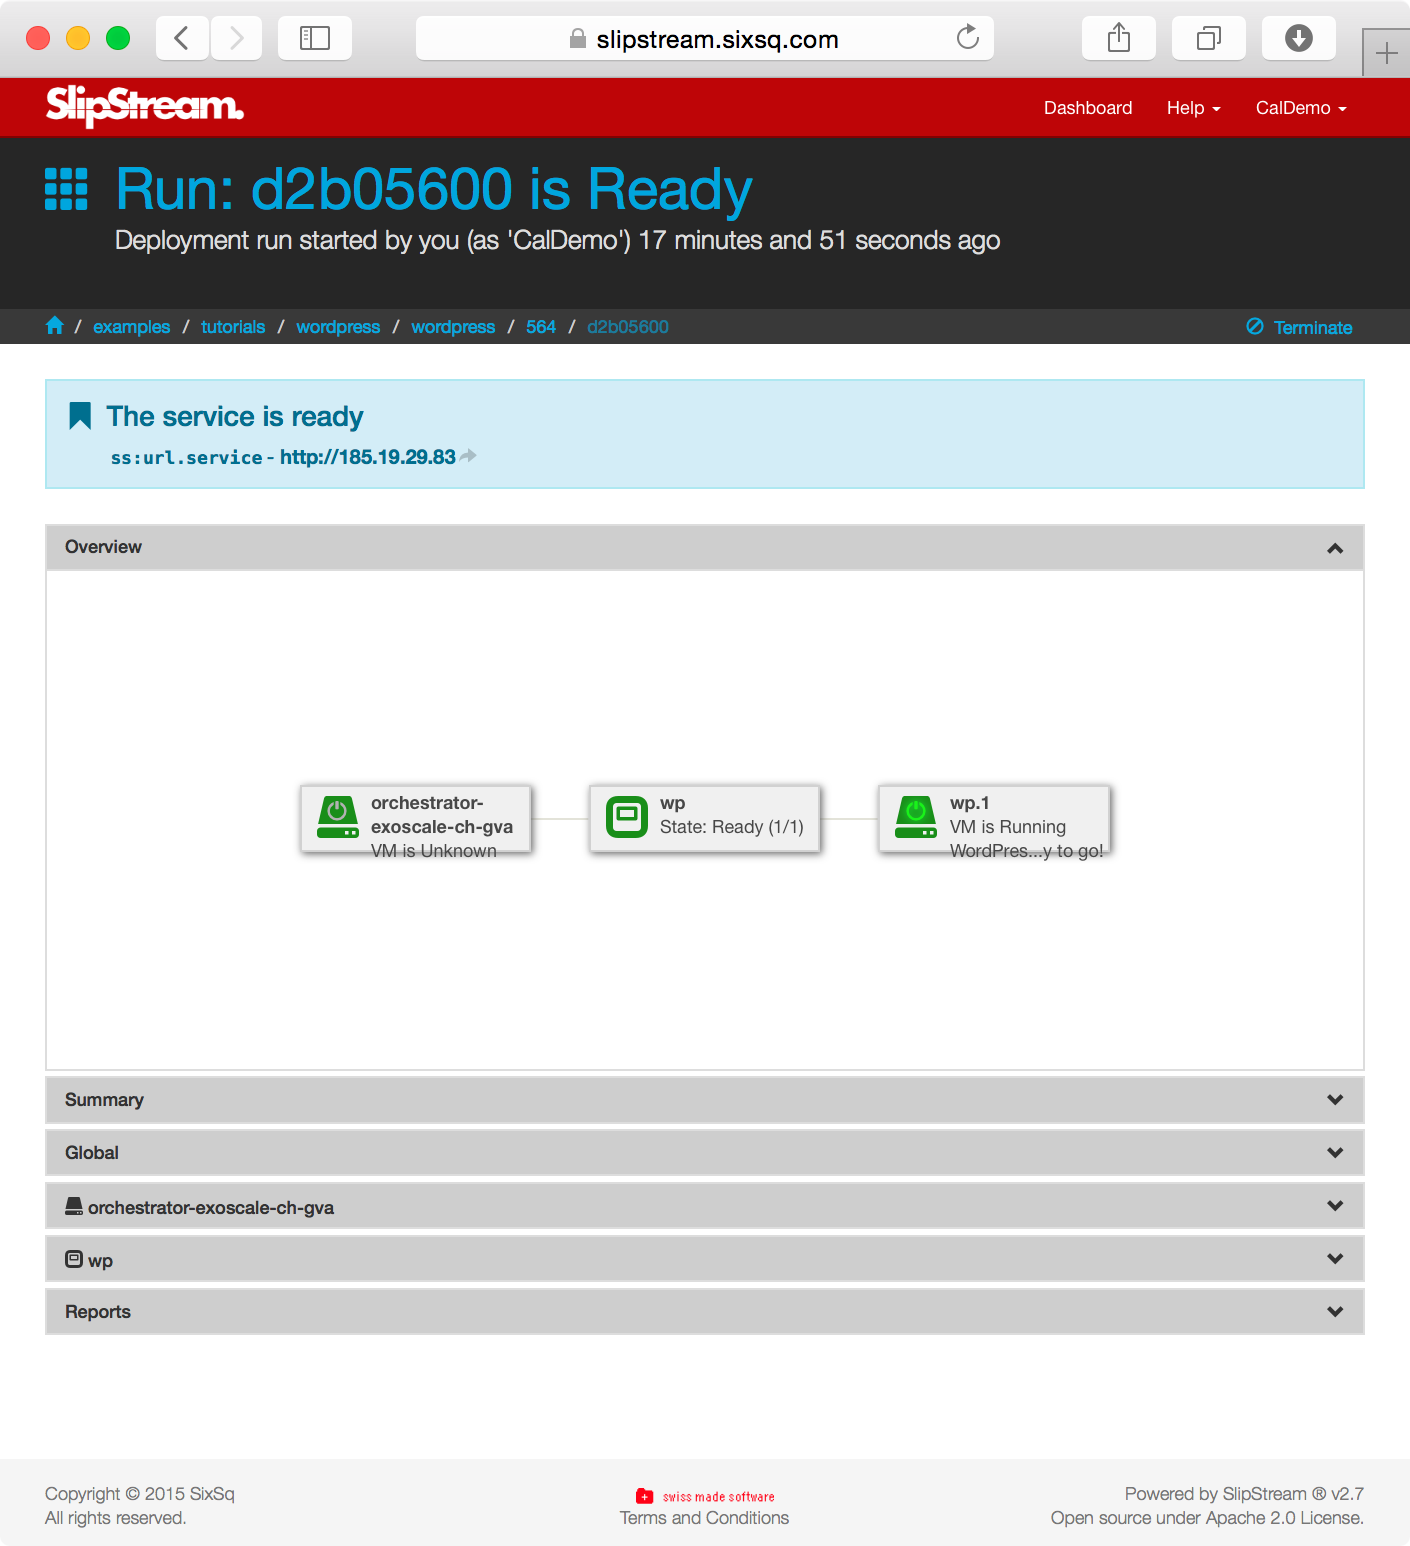
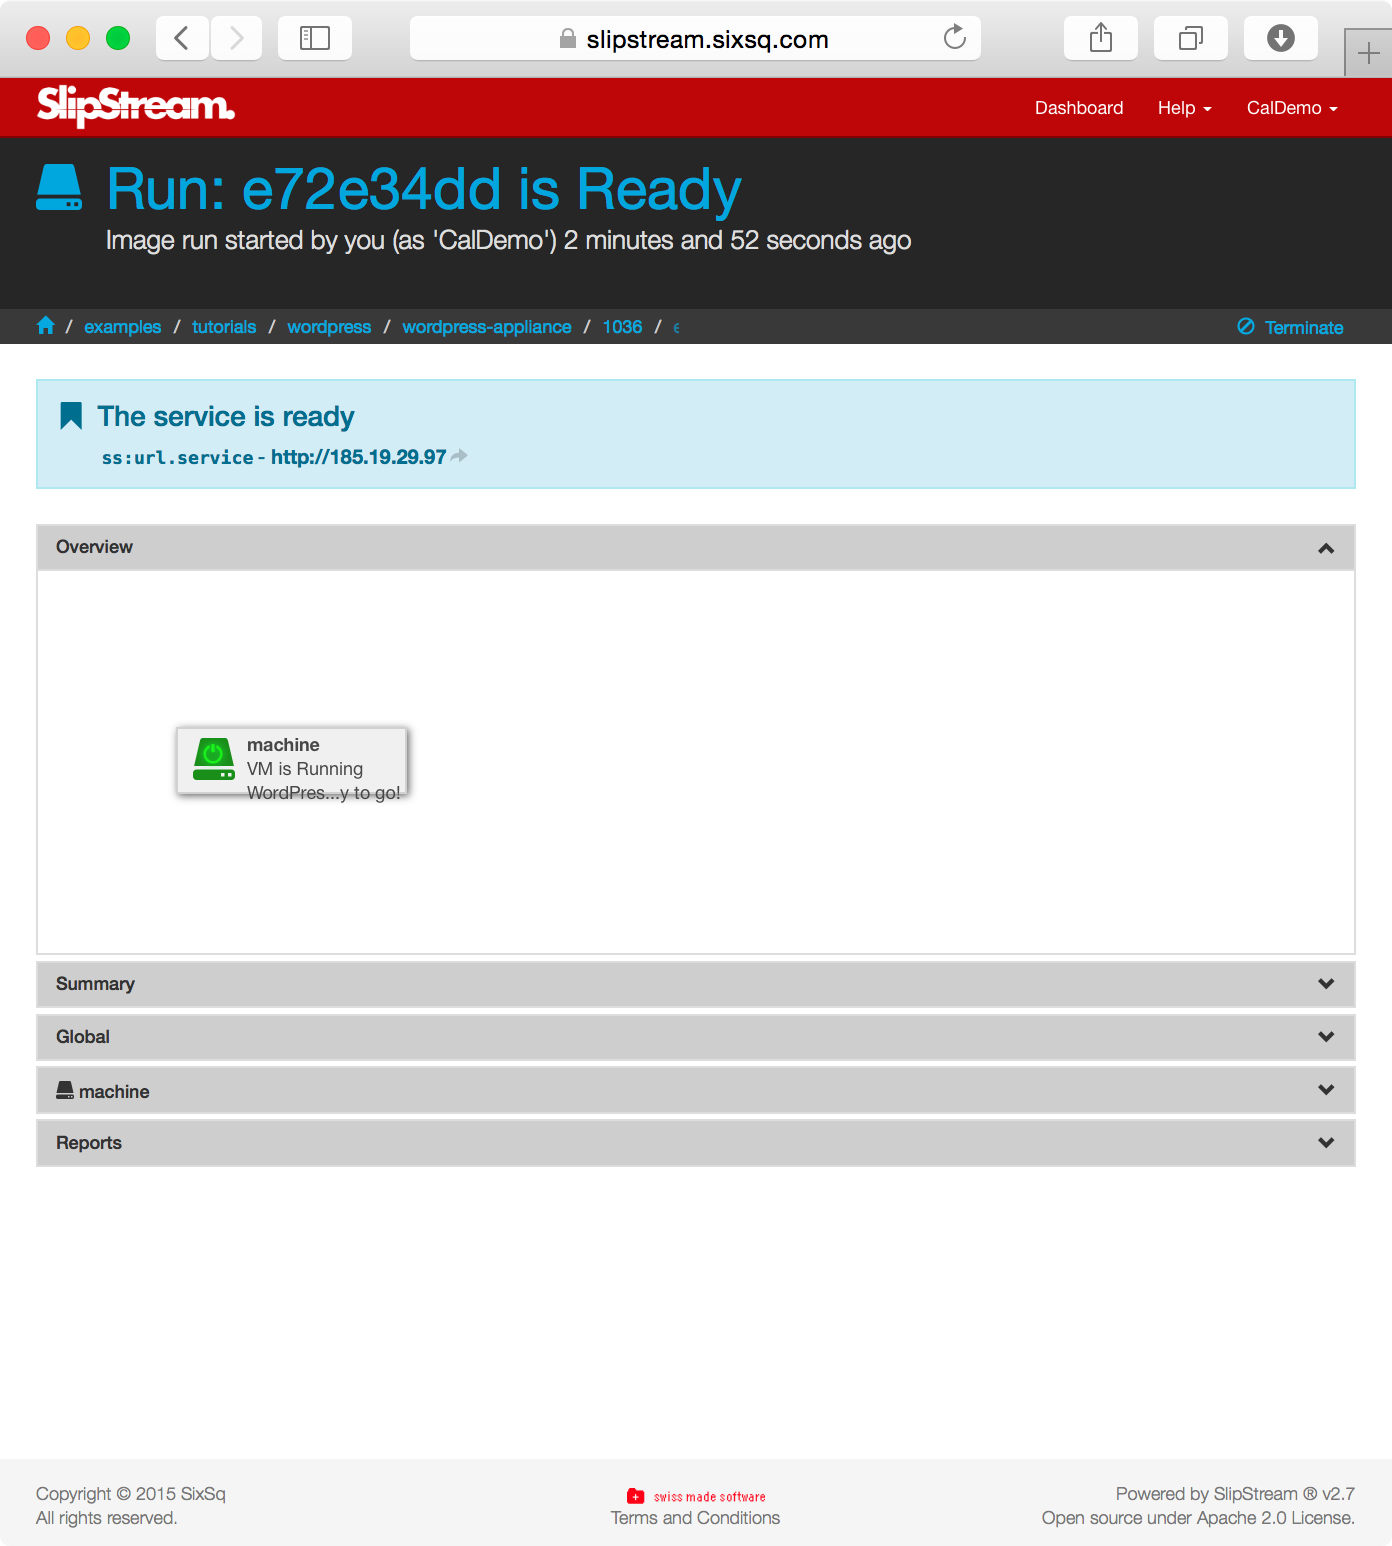
add screenshots; change wordpress description

diff --git a/documentation/advanced_tutorial/single_node_applications.md b/documentation/advanced_tutorial/single_node_applications.md
@@ -29,12 +29,6 @@ where you can follow the status of the application.
 
 ![Wordpress Run Dialog](images/screenshot-wordpress-run.png)
 
-One thing to notice is that there is an "orchestrator" involved in the
-deployment.  In a deployment (rather than a single image), much of the
-work associated with configuring a machine is delegated to the
-orchestrator.  This additional machine will disappear once the
-deployment is complete (except for a run that is marked at "mutable").
-
 If you look at the definition of the `wordpress-appliance` (follow
 links back on the module definition), you will see where the
 parameters for the image are defined. 
@@ -65,10 +59,22 @@ deployment is similar to that from Wordpress, although it uses just a
 bash script for installation rather than a configuration management
 system like Puppet. 
 
+![R-Studio Deployment](images/screenshot-rstudio-run.png)
+
+One thing to notice is that there is an "orchestrator" involved in the
+deployment.  In a deployment (rather than a single image), much of the
+work associated with configuring a machine is delegated to the
+orchestrator.  This additional machine will disappear once the
+deployment is complete (except for a run that is marked at "mutable").
+For a one-node deployment, the orchestrator isn't very useful.
+However, it is necessary when dealing with multi-node applications.
+
 Because there may be many instances of a given application running, it
 is necessary to ensure that only the person deploying the application
 has access to it.  If you deploy R-Studio from the App Store, you will
 be faced with a login page when accessing the instance.
+
+![R-Studio Login Page](images/screenshot-rstudio-login.png)
 
 Where can this information be found?  In the deployment parameters.
 The username and password can be found in the `rstudio.1:rstudio_user`
@@ -109,4 +115,3 @@ and Wordpress deployments to guess how these commands work.
      class. 
   5. Protect the web server with a randomly generated password.
      Define the parameters to pass this information to the user. 
-

diff --git a/documentation/advanced_tutorial/SlipStream_Overview.md b/documentation/advanced_tutorial/SlipStream_Overview.md
@@ -29,10 +29,10 @@ A number of different types of people within an organization can
 benefit from SlipStream.  We're created personas to describe those
 people and how they benefit.
 
-| ![alice]  | Alice is busy working on different projects.  She needs IT applications and resources, but has little patience for IT related issues.  She benefits from the SlipStream App Store where she can start the applications she needs with one click. |
-| ![bob]    | Bob manages a number of workers taking advantage of cloud resources.  He wants an overview of their use of those resources to understand costs and their evolving needs.  SlipStream provides the ability to monitor resource utilization. |
-| ![clara]  | Clara develops cloud applications for people within her organization.  She benefits from SlipStream be creating a rich catalog of services that can be automatically and reliably deployed. |
-| ![dave]   | Dave manages the SlipStream installation.  He's able to integrate his own cloud infrastructure into SlipStream and control what external cloud resources are available to his users.  |
+| ![alice]  | **Alice** is busy working on different projects.  She needs IT applications and resources, but has little patience for IT related issues.  She benefits from the SlipStream App Store where she can start the applications she needs with one click. |
+| ![bob]    | **Bob** manages a number of workers taking advantage of cloud resources.  He wants an overview of their use of those resources to understand costs and their evolving needs.  SlipStream provides the ability to monitor resource utilization. |
+| ![clara]  | **Clara** develops cloud applications for people within her organization.  She benefits from SlipStream be creating a rich catalog of services that can be automatically and reliably deployed. |
+| ![dave]   | **Dave** manages the SlipStream installation.  He's able to integrate his own cloud infrastructure into SlipStream and control what external cloud resources are available to his users.  |
 
 # Interacting with SlipStream
 

diff --git a/documentation/advanced_tutorial/remote_machine_access.md b/documentation/advanced_tutorial/remote_machine_access.md
@@ -57,7 +57,16 @@ configure your user profile with this information.
 
 ## Windows
 
-** TO BE DONE. **
+The standard SSH client to use on Windows is [PuTTY][putty].  Download
+and install this on your machine.
+
+You will then need to generate a key pair for PuTTY.  The easiest is
+to generate a key pair on a Linux machine and then import this into
+PuTTY.  You can also generate it within PuTTY and convert it to the
+required format (OpenSSH) for accessing machines. 
+
+The information in this [StackOverflow thread][so-ssh] and the
+[documentation from AWS][aws-ssh] may be helpful.
 
 # Adding SSH Key to User Profile
 
@@ -117,7 +126,7 @@ easily downloaded and installed for all operating systems.  Use your
 package manager (or Google) to find and to install a VNC client.
 
 > Many machines do not have VNC installed.  Before trying to connect
-> with a VNC client, verify that the machine support VNC and that the
+> with a VNC client, verify that the machine supports VNC and that the
 > necessary ports (5900-5902) are open in the cloud's firewall.
 {: .important}
 
@@ -126,3 +135,8 @@ package manager (or Google) to find and to install a VNC client.
   1. Ensure you have an SSH client installed on your machine
   2. Ensure you have an SSH key pair, generating one if necessary
   3. Configure your user profile with your SSH public key
+
+
+[putty]: http://www.chiark.greenend.org.uk/~sgtatham/putty/
+[so-ssh]: http://stackoverflow.com/questions/2224066/how-to-convert-ssh-keypairs-generated-using-puttygenwindows-into-key-pairs-use
+[aws-ssh]: http://docs.aws.amazon.com/AWSEC2/latest/UserGuide/putty.html

diff --git a/documentation/advanced_tutorial/standalone_images.md b/documentation/advanced_tutorial/standalone_images.md
@@ -13,6 +13,21 @@ In this section you'll learn how to:
   - Run a simple image, and
   - Update the software within the running machine instance 
 
+# Cloud Firewalls
+
+Currently SlipStream does not manage the firewalls associated with the
+cloud infrastructures.  Because of this, you must configure the
+default firewall settings on the clouds you use to open the ports you
+need for your applications.  For this tutorial, opening the following
+ports are useful.
+
+| SSH     | TCP      | 22        |
+| VNC     | TCP      | 5900-5902 |
+| RDP     | TCP, UDP | 3389      |
+| HTTP    | TCP      | 80        |
+| HTTPS   | TCP      | 443       |
+| MongoDB | TCP      | 27017     |
+
 # Run a Virtual Machine
 
 At its simplest, SlipStream can be used to launch individual virtual
@@ -139,10 +154,13 @@ shutdown the virtual machine and release the associated resources.
 # Exercises
 
   1. Run a machine (either Ubuntu or CentOS) through SlipStream,
-     verifying that you can access the machine via SSH.
+     verifying that you can access the machine via SSH.  Note the
+     number of CPUs (`/proc/cpuinfo`) and RAM (`/proc/meminfo`). 
   2. Copy and create your own version of a simple machine, customizing
-     the metadata for the image. 
+     the metadata and the resources for the image.
   3. Verify that you can run and log into your copied image.
+     Determine if the resource allocation has changed.
+  4. Deploy a web server on the image and ensure it works.
 
 
 [rstudio]: http://www.rstudio.com

diff --git a/documentation/advanced_tutorial/cloud_technology.md b/documentation/advanced_tutorial/cloud_technology.md
@@ -176,7 +176,7 @@ Despite the marketing hype, cloud technologies offer real benefits to
 users.  With cloud infrastructures, people can rapidly deploy large
 applications without associated large, up-front capital costs.
 Moreover, they can optimize these applications easily, running them in
-environment tuned to the application's requirements, deploying
+environments tuned to the application's requirements, deploying
 services near clients to minimize latencies, and scaling resources to
 match customer demand.
 

diff --git a/documentation/advanced_tutorial/LAMP_Demo.md b/documentation/advanced_tutorial/LAMP_Demo.md
@@ -14,7 +14,7 @@ The LAMP++ (Linux, Apache, MongoDB, and PHP) application is an example
 through multiple web front-ends and a distributed MongoDB database. By
 default, the deployment has:
 
-  - An HAProxy node for load-balancing the web front-ends
+  - 1 HAProxy node for load-balancing the web front-ends
   - 2 web front-ends running Apache
   - 3 MongoDB nodes running with a quorum of 2
 
